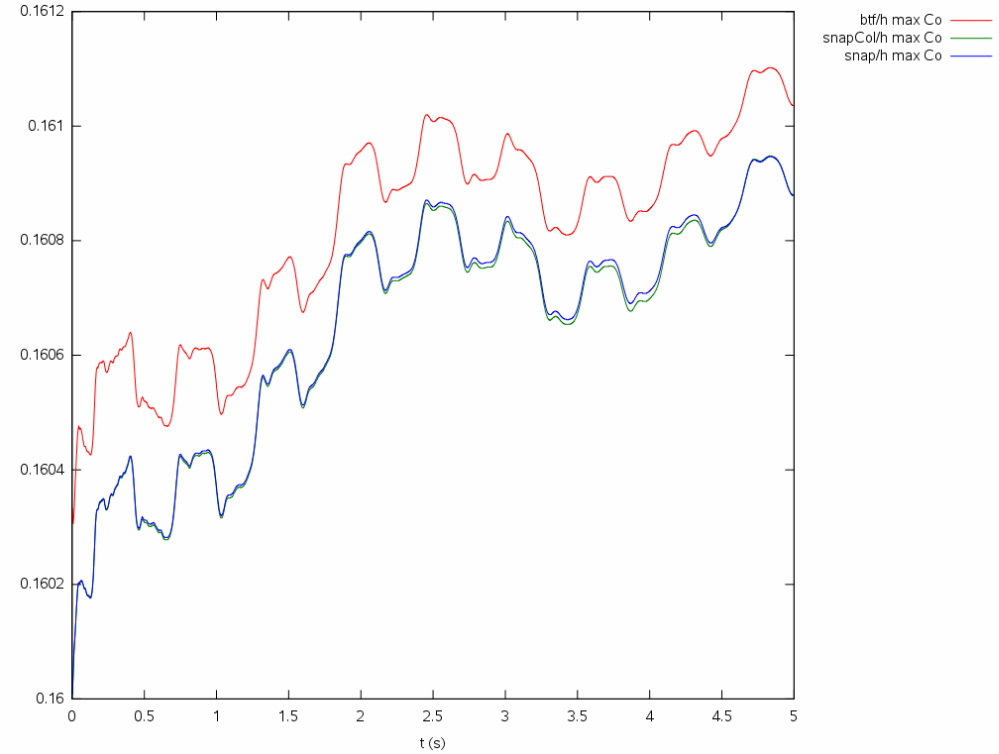
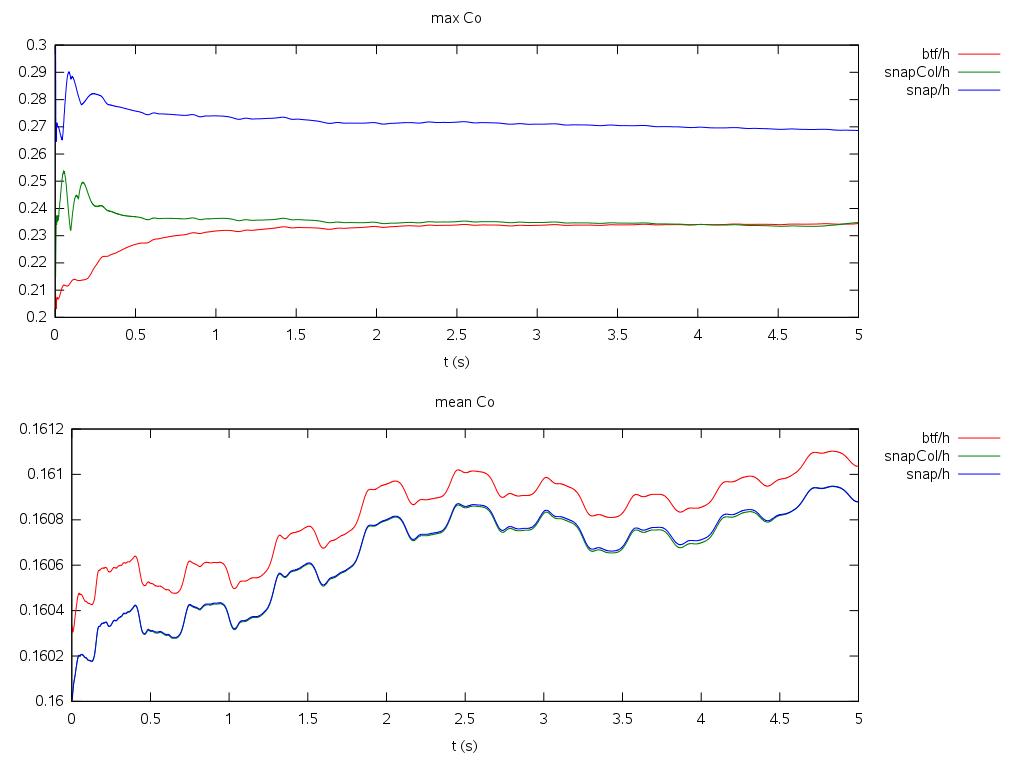
discuss mean and max courant numbers for gravityWaves

diff --git a/gravityWaves.tex b/gravityWaves.tex
@@ -17,14 +17,6 @@ Initially suspected mixing was due to computation mode of Lorenz vertical stagge
 	\item the results for dp/dx show mixing in BTF, and increased mixing in SnapCol (not shown)
 \end{itemize}
 
-This suggests irreversible thermodynamic mixing (caused by numerical errors).  In reality, viscous effects would cause such mixing, but our equation set has no viscosity so there should be no mixing.  We can further investigate this mixing by
-\begin{itemize}
-	\item plotting energy changes
-	\item comparing with snap mesh (which has no small cells)
-	\item isolating value of nonlinear momentum term
-	\item comparing with high resolution solution
-\end{itemize}
-
 \begin{figure}
 	\includegraphics[width=\textwidth]{interim-results/gravityWavesBTFSnapColVelocityVectors.png}
 	\caption{UfDiff after t=18000s, BTF and SnapCol meshes}
@@ -58,3 +50,24 @@ This suggests irreversible thermodynamic mixing (caused by numerical errors).  I
 \caption{Vertical mixing after t=18000s.  Confusingly, snap mesh right, BTF left!}
 \label{fig:gw:mixing-18000s}
 \end{figure}
+
+This suggests irreversible thermodynamic mixing (caused by numerical errors).  In reality, viscous effects would cause such mixing, but our equation set has no viscosity so there should be no mixing.  We can further investigate this mixing by
+\begin{itemize}
+	\item plotting energy changes
+	\item comparing with snap/snapOrtho mesh (which have no small cells) -- TODO: which one should we use, the more orthogonal one?
+	\item isolating value of nonlinear momentum term
+	\item comparing with high resolution solution
+\end{itemize}
+
+\subsection{Courant number}
+
+Mean Courant numbers for cut-cell meshes are lower than BTF.  Surprisingly, mean courant number is slightly higher for snap mesh which has no small cells (Figure~\ref{fig:gw:courant}).  Max Courant numbers are reversed: BTF has the lowest max Co, snap mesh significantly higher.  TODO: find out what 
+
+\begin{figure}
+	\includegraphics[width=\textwidth]{interim-results/gravityWavesCourants.png}
+	\caption{Courant number for gravityWaves}
+	\label{fig:gw:courant}
+\end{figure}
+
+\subsection{Energy}
+TODO

diff --git a/meshes.tex b/meshes.tex
@@ -6,7 +6,8 @@ Test cases run on the following meshes:
 \item[Basic terrain following (BTF)]
 \item[Smooth level vertical (SLEVE)]{From Sch{\"a}r et al 2002 -- not looked at this for gravity waves test (yet)}
 \item[snapCol]{add2dMountain used to snap points underground to the surface, then use snappyHexMesh to remove cells underground by intersecting with surface patch}
-\item[snap]{snappyHexMesh applied to unmodified blockMesh.  I also tried making this slightly more orthogonal by modifying the blockMesh with add2dMountain.  Points nearest the surface were moved vertically to meet the surface.  See comparison in Figure~\ref{fig:snap-mesh-compare}.  I haven't run any tests against this mesh (yet) though.}
+\item[snap]{snappyHexMesh applied to unmodified blockMesh}
+\item[snapOrtho]{snappyHexMesh applied to blockMesh modified with add2dMountain.  Points nearest the surface were moved vertically to meet the surface.  See comparison in Figure~\ref{fig:snap-mesh-compare}.  I haven't run any tests against this mesh (yet) though.}
 \end{description}
 
 \begin{figure}
